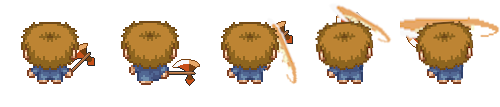
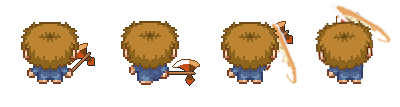
shortened the anim on the playerUpWithAxeSwing

diff --git a/Game1.cs b/Game1.cs
@@ -123,7 +123,7 @@ namespace konoha
             player.animations[7] = new AnimatedSprite(playerRightWithAxe, 1, 4, 0.15D);
 
             // WITH AXE + SWING
-            player.animations[8] = new AnimatedSprite(playerUpWithAxeSwing, 1, 5, 0.1D);
+            player.animations[8] = new AnimatedSprite(playerUpWithAxeSwing, 1, 4, 0.1D);
             player.animations[9] = new AnimatedSprite(playerDownWithAxeSwing, 1, 4, 0.1D);
             player.animations[10] = new AnimatedSprite(playerLeftWithAxeSwing, 1, 4, 0.065D);
             player.animations[11] = new AnimatedSprite(playerRightWithAxeSwing, 1, 4, 0.065D);
